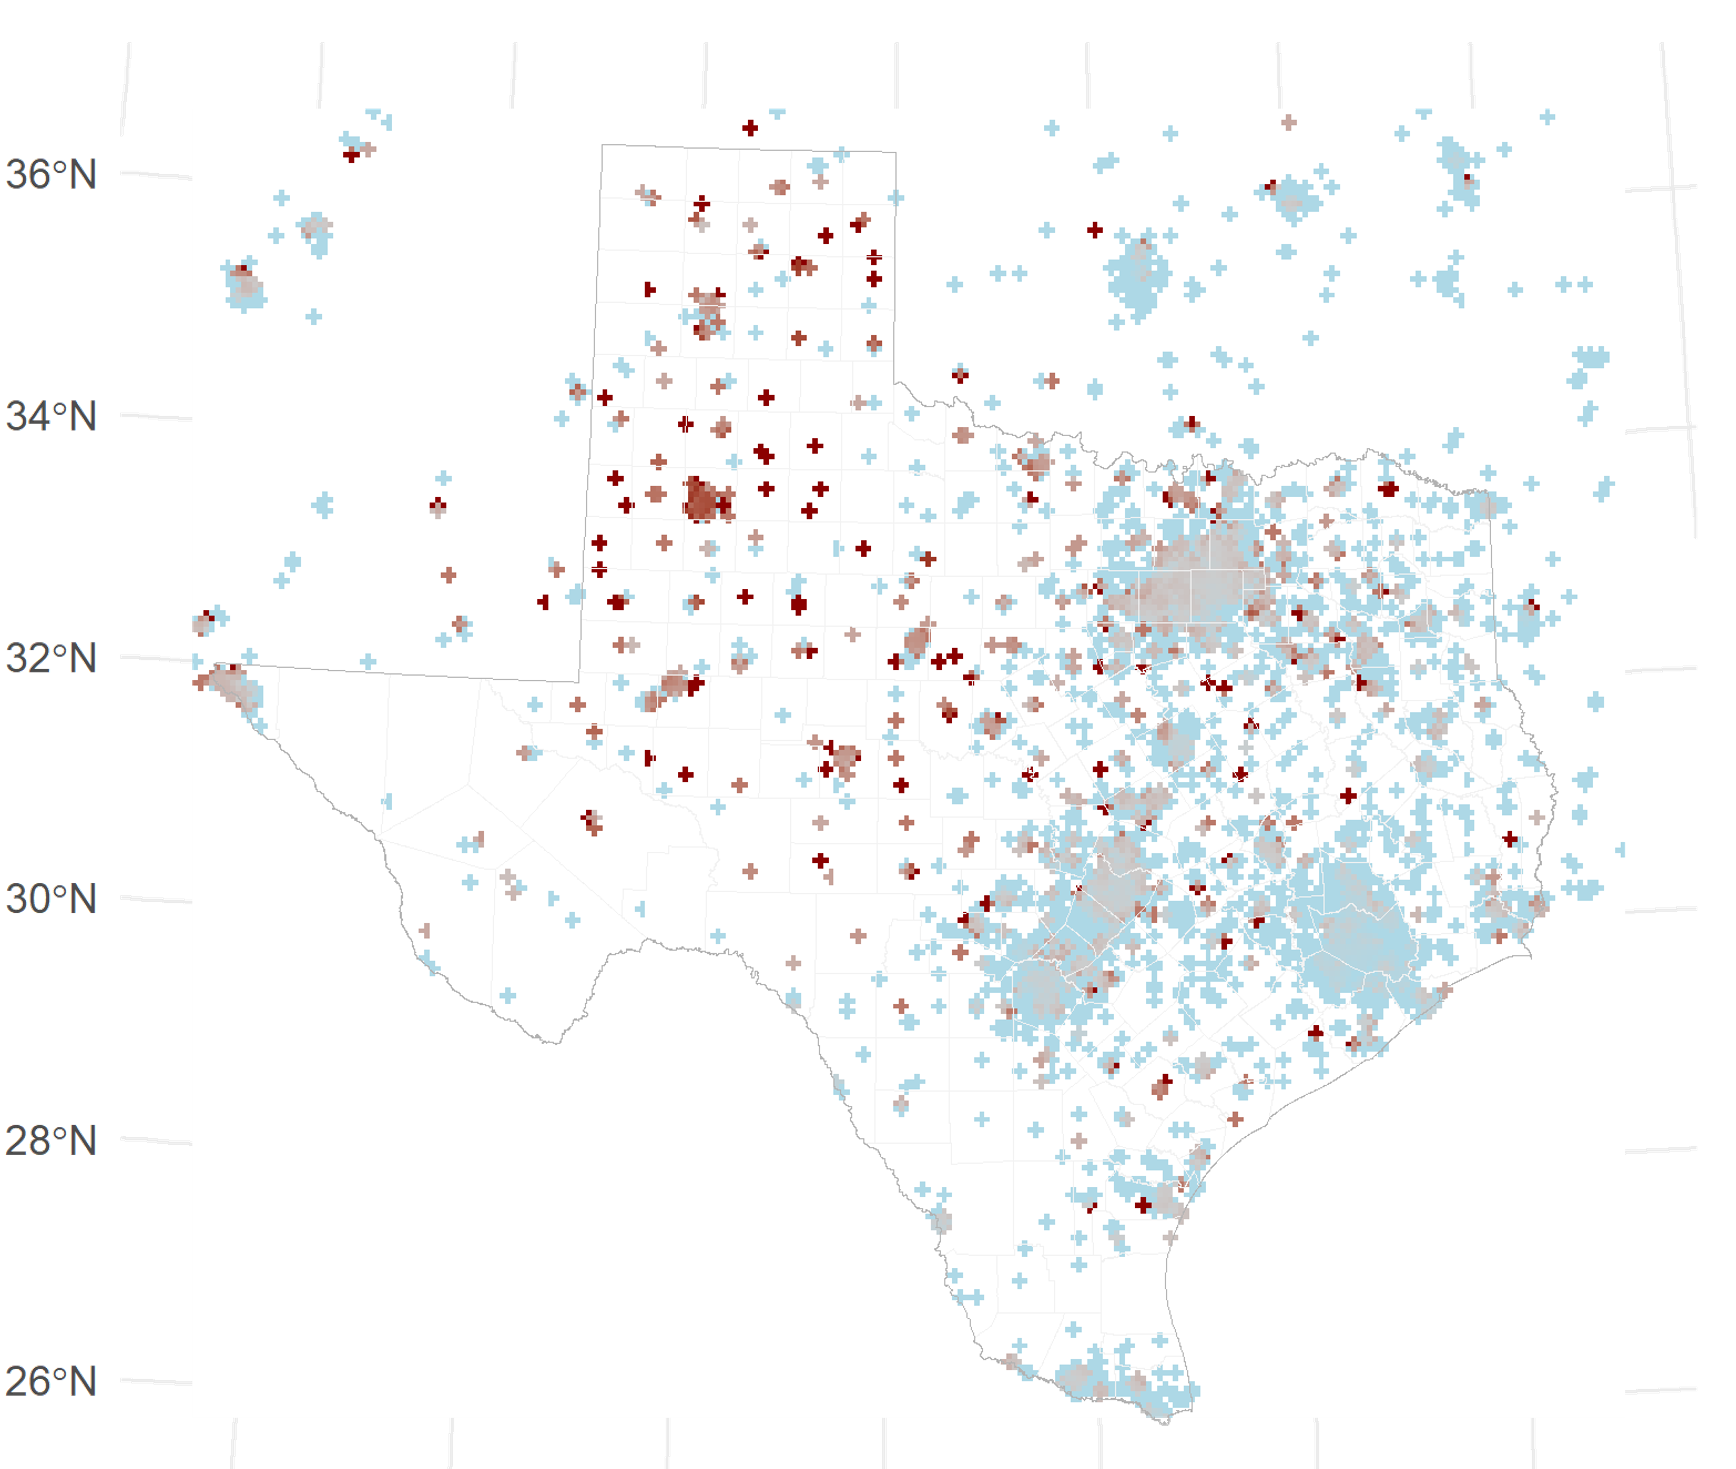
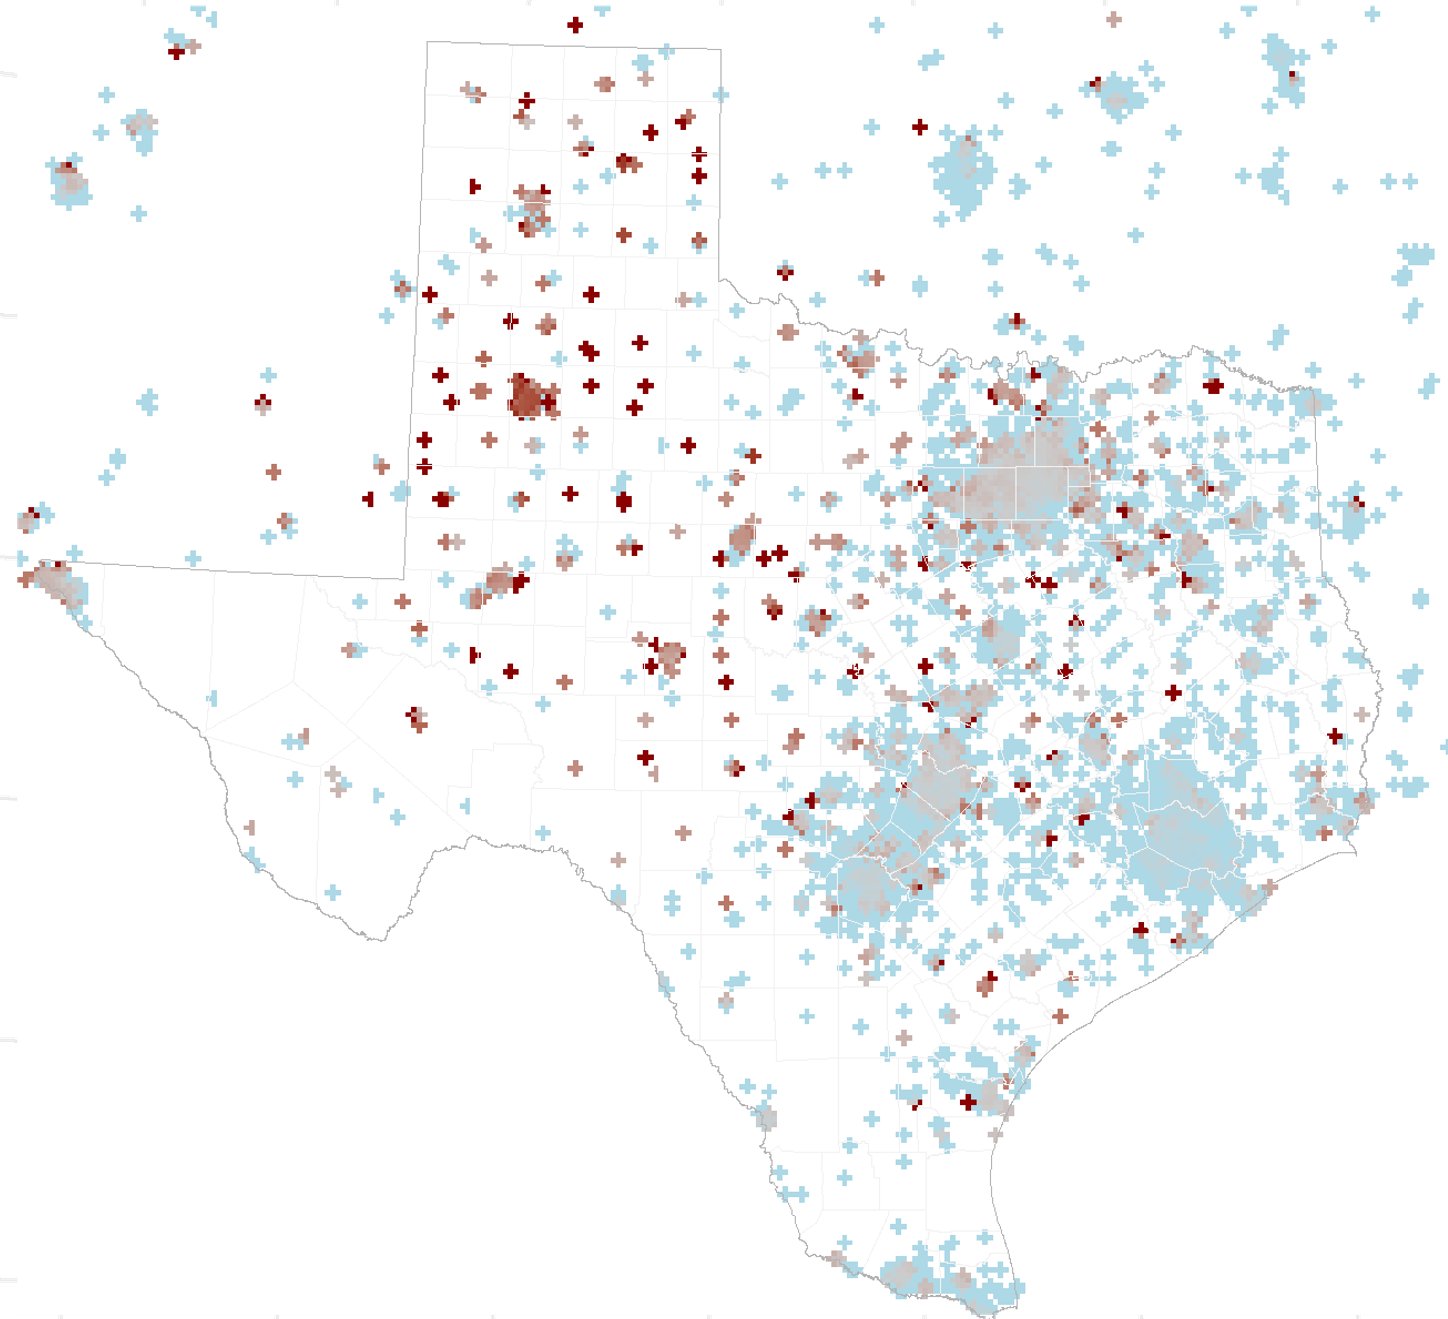
nov second

diff --git a/_pages/Research.md b/_pages/Research.md
@@ -15,67 +15,46 @@ excerpt: "Spatial Data, Mass Violence, and Urban Built-Environment."
 
 intro: 
   - excerpt: 'Geography is a bout the location and space of everything on earth: '
-feature_row:
+feature_row0:
   - image_path: /assets/images/Belize-city.jpg
-    image_caption: "Credit: [Teng](https://stormocean.github.io/)"
+    image_caption: "Credit: [Teng](https://mi-geo.github.io/)"
     alt: "Spatial Analysis"
-    title: "Innovatie Spatial Analysis Methods"
+    title: "Uneven Legal Resource across Space"
     excerpt: ""
-    url: "/teaching/"
+    url: "/legal/"
     btn_label: "Read More"
     btn_class: "btn-info"
   - image_path: /assets/images/Indonesia-statue.jpg
-    image_caption: "Credit: [Teng](https://stormocean.github.io/)"
+    image_caption: "Credit: [Teng](https://mi-geo.github.io/)"
     alt: "Violence"
     title: "Mass Violence in Indonesia"
     excerpt: "Spatial analysis of mass **violence**. Research area focuses on Indonesia."
-    url: "/teaching/"
+    url: "/Indonesia/"
     btn_label: "Read More"
     btn_class: "btn-info"
   - image_path: /assets/images/Beijing-danwei.jpg
-    image_caption: "Credit: [Teng](https://stormocean.github.io/)"
+    image_caption: "Credit: [Teng](https://mi-geo.github.io/)"
     alt: "Danwei"
     title: "Transitioning, Poverty, and Development of Asia"
     excerpt: "My previous studies includes discussed several Quantitative urban policy study"
-    url: "/teaching/"
-    btn_label: "Read More"
+    url: "/China/"
+    <!--
+	btn_label: "Read More"
     btn_class: "btn-info"
+	-->
 Seperator1: 
   - title: ""
   - excerpt: ''
-feature_row2:
+feature_row1:
   - image_path: /assets/images/res/whole-draft-resize.png
     alt: "Spatial Analysis of Indonesia Mass Violence"
     title: "Spatial Analysis of Indonesia Mass Violence"
-    excerpt: "We have estimates of the intensity of violence in the different kecamatan of East Java based on census data in conjunction with data on the locations of the historically significant pesantren, indicative of local capacity for political mobilization against the PKI, to examine possible associations between the two variables.\
+    excerpt: "We have estimates of the intensity of violence in the different kecamatan of East Java based on census data in conjunction with data on the locations of the historically significant pesantren, indicative of local capacity for political mobilization against the PKI, to examine possible associations between the two variables.
+	
 	*Chandra, S., Zhang, T., 2023. Glimpses of Indonesia’s 1965 Massacre through the Lens of the Census: The Role of Civilian Organizations in the Mass Anti-Communist Killings of 1965-66 in East Java. Indonesia (accepted)*"
     url: "/Indonesia/"
     btn_label: "Read More"
     btn_class: "btn--info"
-feature_row3:
-  - image_path: /assets/images/res/Air-Quality-Fig02.png
-    alt: "Environment Policy and Empirical Result of Air Quality in China"
-    title: "Environment Policy and Empirical Result of Air Quality in China"
-    excerpt: "The capability, pressure, and resistance to enforce environmental regulations would determine the result of air quality. This study investigated the air quality across 86 major Chinese cities and observed that between 2001 and 2011, air quality showed an overall improvement, although with substantial discrepancies across cities.\
-	Using a panel data regression model, this study revealed that inadequate capability and strong opposition towards enforcing stringent environmental regulations were pivotal factors contributing to environmental degradation in urban China. Moreover, the study concluded that social pressure had a negligible impact on improving urban air quality.\
-
-	*He, C., Zhang, T. and Rui, W., 2012. Air quality in urban China. Eurasian Geography and Economics, 53(6), pp.750-771.*"
-    url: "https://www.tandfonline.com/doi/pdf/10.2747/1539-7216.53.6.750"
-    btn_label: "Read More"
-    btn_class: "btn--info"
-feature_row4:
-  - image_path: /assets/images/res/HGDY-Danwei-timeline.png
-    alt: "danwei compound in Beijing..."
-    title: "Transiting spatial structure of post-soviet walled residential compound"
-    excerpt: "*Danwei* compounds (work-unit) constituted the predominant type of urban neighborhood. Subsequent to the economic reforms, the role of these compounds has experienced significant changes. This research undertakes an exploration of the conceptualization of property rights redistribution and spatial evolution in post-danwei compounds. 
-	The trend towards the private appropriation of all types of compound resources by these users has brought about the spatial evolution of the compound, characterized by the reuse of former amenities, fragmented spaces, porous boundaries, the evolution of street shops, and the encroachment of public space.\
-	*Zhang, M., Zhang, T., Xiao, Z. and Chai, Y., 2021. Property rights redistribution and the spatial evolution of the Chinese danwei compound: a case study in Beijing. Journal of Housing and the Built Environment, pp.1-18.*"
-    url: "https://link.springer.com/article/10.1007/s10901-020-09810-z"
-    btn_label: "Read More"
-    btn_class: "btn--info"
-Seperator2: 
-  - title: "Urban Spatial Structure in Transitioning Chinese City"
-  - excerpt: ''
 
 ---
 {% include feature_row id="intro" type="center" %}
@@ -84,14 +63,3 @@ Seperator2:
 #### Selected Published Work
 
 {% include feature_row id="Seperator1" type="left" %}
-
-{% include feature_row id="feature_row2" type="left" %}
-
-{% include feature_row id="feature_row3" type="right" %}
-
-{% include feature_row id="feature_row4" type="left" %}
-
-#### Selected Work in Process:
-{% include feature_row id="Seperator2" type="left" %}
-
-{% include feature_row id="feature_row5" type="left" %}

diff --git a/_pages/research-old.md b/_pages/research-old.md
@@ -1,0 +1,103 @@
+---
+title: Research Interests
+layout: splash
+permalink: /research/
+date: 
+header:
+  overlay_color: "#000"
+  overlay_filter: "0.2"
+  overlay_image: /assets/images/Jkt-downtown.jpg
+  caption: "Photo credit: [**Teng Zhang**](https://facebook.com)"
+  actions:
+    - label: "Read More"
+      url: "https://github.com/"
+excerpt: "Spatial Data, Mass Violence, and Urban Built-Environment."
+
+intro: 
+  - excerpt: 'Geography is a bout the location and space of everything on earth: '
+feature_row:
+  - image_path: /assets/images/Belize-city.jpg
+    image_caption: "Credit: [Teng](https://mi-geo.github.io/)"
+    alt: "Spatial Analysis"
+    title: "Innovatie Spatial Analysis Methods"
+    excerpt: ""
+    url: "/teaching/"
+    btn_label: "Read More"
+    btn_class: "btn-info"
+  - image_path: /assets/images/Indonesia-statue.jpg
+    image_caption: "Credit: [Teng](https://mi-geo.github.io/)"
+    alt: "Violence"
+    title: "Mass Violence in Indonesia"
+    excerpt: "Spatial analysis of mass **violence**. Research area focuses on Indonesia."
+    url: "/teaching/"
+    btn_label: "Read More"
+    btn_class: "btn-info"
+  - image_path: /assets/images/Beijing-danwei.jpg
+    image_caption: "Credit: [Teng](https://mi-geo.github.io/)"
+    alt: "Danwei"
+    title: "Transitioning, Poverty, and Development of Asia"
+    excerpt: "My previous studies includes discussed several Quantitative urban policy study"
+    url: "/teaching/"
+    btn_label: "Read More"
+    btn_class: "btn-info"
+Seperator1: 
+  - title: ""
+  - excerpt: ''
+feature_row2:
+  - image_path: /assets/images/res/whole-draft-resize.png
+    alt: "Spatial Analysis of Indonesia Mass Violence"
+    title: "Spatial Analysis of Indonesia Mass Violence"
+    excerpt: "We have estimates of the intensity of violence in the different kecamatan of East Java based on census data in conjunction with data on the locations of the historically significant pesantren, indicative of local capacity for political mobilization against the PKI, to examine possible associations between the two variables.
+	
+	*Chandra, S., Zhang, T., 2023. Glimpses of Indonesia’s 1965 Massacre through the Lens of the Census: The Role of Civilian Organizations in the Mass Anti-Communist Killings of 1965-66 in East Java. Indonesia (accepted)*"
+    url: "/Indonesia/"
+    btn_label: "Read More"
+    btn_class: "btn--info"
+feature_row3:
+  - image_path: /assets/images/res/Air-Quality-Fig02.png
+    alt: "Environment Policy and Empirical Result of Air Quality in China"
+    title: "Environment Policy and Empirical Result of Air Quality in China"
+    excerpt: |
+	"The capability, pressure, and resistance to enforce environmental regulations would determine the result of air quality. This study investigated the air quality across 86 major Chinese cities and observed that between 2001 and 2011, air quality showed an overall improvement, although with substantial discrepancies across cities.
+	
+	Using a panel data regression model, this study revealed that inadequate capability and strong opposition towards enforcing stringent environmental regulations were pivotal factors contributing to environmental degradation in urban China. Moreover, the study concluded that social pressure had a negligible impact on improving urban air quality.
+
+	*He, C., Zhang, T. and Rui, W., 2012. Air quality in urban China. Eurasian Geography and Economics, 53(6), pp.750-771.*"
+    url: "https://www.tandfonline.com/doi/pdf/10.2747/1539-7216.53.6.750"
+    btn_label: "Read More"
+    btn_class: "btn--info"
+feature_row4:
+  - image_path: /assets/images/res/HGDY-Danwei-timeline.png
+    alt: "danwei compound in Beijing..."
+    title: "Transiting spatial structure of post-soviet walled residential compound"
+    excerpt: |
+	"*Danwei* compounds (work-unit) constituted the predominant type of urban neighborhood. Subsequent to the economic reforms, the role of these compounds has experienced significant changes. This research undertakes an exploration of the conceptualization of property rights redistribution and spatial evolution in post-danwei compounds. 
+	
+	The trend towards the private appropriation of all types of compound resources by these users has brought about the spatial evolution of the compound, characterized by the reuse of former amenities, fragmented spaces, porous boundaries, the evolution of street shops, and the encroachment of public space.
+	
+	*Zhang, M., Zhang, T., Xiao, Z. and Chai, Y., 2021. Property rights redistribution and the spatial evolution of the Chinese danwei compound: a case study in Beijing. Journal of Housing and the Built Environment, pp.1-18.*"
+    url: "https://link.springer.com/article/10.1007/s10901-020-09810-z"
+    btn_label: "Read More"
+    btn_class: "btn--info"
+Seperator2: 
+  - title: "Urban Spatial Structure in Transitioning Chinese City"
+  - excerpt: ''
+
+---
+{% include feature_row id="intro" type="center" %}
+
+{% include feature_row %}
+#### Selected Published Work
+
+{% include feature_row id="Seperator1" type="left" %}
+
+{% include feature_row id="feature_row2" type="left" %}
+
+{% include feature_row id="feature_row3" type="right" %}
+
+{% include feature_row id="feature_row4" type="left" %}
+
+#### Selected Work in Process:
+{% include feature_row id="Seperator1" type="left" %}
+
+{% include feature_row id="feature_row5" type="left" %}

diff --git a/_pages/China.md b/_pages/China.md
@@ -1,0 +1,56 @@
+---
+title: '**Unsafe Place**: '
+layout: single
+permalink: /China/
+author_profile: true
+date:
+header:
+  overlay_color: "#000"
+  overlay_filter: "0.2"
+  overlay_image: /assets/images/Culture-Revolution.jpg
+  caption: "Photo credit: [**Teng Zhang**](https://facebook.com)"
+excerpt: "China related research..."
+---
+
+Seperator1: 
+  - title: ""
+  - excerpt: ''
+
+feature_row1:
+  - image_path: /assets/images/res/Air-Quality-Fig02.png
+    alt: "Environment Policy and Empirical Result of Air Quality in China"
+    title: "Environment Policy and Empirical Result of Air Quality in China"
+    excerpt: |
+	"The capability, pressure, and resistance to enforce environmental regulations would determine the result of air quality. This study investigated the air quality across 86 major Chinese cities and observed that between 2001 and 2011, air quality showed an overall improvement, although with substantial discrepancies across cities.
+	
+	Using a panel data regression model, this study revealed that inadequate capability and strong opposition towards enforcing stringent environmental regulations were pivotal factors contributing to environmental degradation in urban China. Moreover, the study concluded that social pressure had a negligible impact on improving urban air quality.
+
+	*He, C., Zhang, T. and Rui, W., 2012. Air quality in urban China. Eurasian Geography and Economics, 53(6), pp.750-771.*"
+    url: "https://www.tandfonline.com/doi/pdf/10.2747/1539-7216.53.6.750"
+    btn_label: "Read More"
+    btn_class: "btn--info"
+feature_row2:
+  - image_path: /assets/images/res/HGDY-Danwei-timeline.png
+    alt: "danwei compound in Beijing..."
+    title: "Transiting spatial structure of post-soviet walled residential compound"
+    excerpt: |
+	"*Danwei* compounds (work-unit) constituted the predominant type of urban neighborhood. Subsequent to the economic reforms, the role of these compounds has experienced significant changes. This research undertakes an exploration of the conceptualization of property rights redistribution and spatial evolution in post-danwei compounds. 
+	
+	The trend towards the private appropriation of all types of compound resources by these users has brought about the spatial evolution of the compound, characterized by the reuse of former amenities, fragmented spaces, porous boundaries, the evolution of street shops, and the encroachment of public space.
+	
+	*Zhang, M., Zhang, T., Xiao, Z. and Chai, Y., 2021. Property rights redistribution and the spatial evolution of the Chinese danwei compound: a case study in Beijing. Journal of Housing and the Built Environment, pp.1-18.*"
+    url: "https://link.springer.com/article/10.1007/s10901-020-09810-z"
+    btn_label: "Read More"
+    btn_class: "btn--info"
+	
+Seperator2: 
+  - title: "Urban Spatial Structure in Transitioning Chinese City"
+  - excerpt: ''
+
+---
+{% include feature_row id="feature_row2" type="left" %}
+
+{% include feature_row id="feature_row3" type="right" %}
+
+{% include feature_row id="feature_row4" type="left" %}
+

diff --git a/_pages/legal.md b/_pages/legal.md
@@ -1,0 +1,46 @@
+---
+title: '**Unsafe Place**: '
+layout: single
+permalink: /legal/
+author_profile: true
+date:
+header:
+  overlay_color: "#000"
+  overlay_filter: "0.2"
+  overlay_image: /assets/images/Jkt-downtown.jpg
+  caption: "Photo credit: [**Teng Zhang**](https://facebook.com)"
+  actions:
+    - label: "Read More"
+      url: "https://github.com/"
+excerpt: "Spatial Analysis of the Indonesian Purge of 1965-66..."
+---
+
+## Background
+My research on the uneven distribution of legal resources in the United States emerged from a broader concern with spatial inequality and access to justice. Across much of the rural South and Midwest, defendants often face a shortage of qualified defense attorneys, resulting in prolonged case processing times and unequal representation. This condition—commonly referred to as a legal desert—reflects deeper structural imbalances in how professional and institutional resources are distributed across space.
+
+As research deepening, I gradually developed new methods to explore the features and patterns of the evolvment of legal resources. 
+
+#### Education Analysis:
+Attorneys are trained in diverse law schools across the country. Unlike other professions, I observed that lawyers tend to establish their practices near the locations of their law schools. My initial research sought to explore how legal education influences the geographic distribution of legal resources. However, this line of inquiry was not pursued further due to limited data on the hometown origins of law students, which constrained the ability to trace their professional mobility after graduation.
+<figure>
+	<a href="/assets/analysis/TTU.png.png">
+	<img src="/assets/analysis/TTU.png.png"></a>
+	<figcaption>Location Quotient of Lawyers graduated from Texas Tech U</figcaption>
+</figure>
+
+#### Network features
+My analysis shows that legal resources have become increasingly concentrated around a few courts and clusters of legal professionals. Over time, this centralization has created pockets of abundance surrounded by large areas of scarcity, highlighting how uneven access to legal representation can reinforce broader social and geographic inequalities.
+This research is on-going.
+<figure>
+	<a href="/assets/charts/network/p_2014.png">
+	<img src="/assets/charts/network/p_2014.png" width="60%"></a>
+	<figcaption>Lawyer Network in Panhandle Texas, pre-covid</figcaption>
+</figure>
+
+<figure style="text-align:center;">
+	<a href="/assets/charts/network/p_2022.png">
+	<img src="/assets/charts/network/p_2022.png" 
+	style="max-width:60%; height:auto;"></a>
+	<figcaption>Lawyer Network in Panhandle Texas, post-covid</figcaption>
+</figure>
+ 

diff --git a/_pages/skills.md b/_pages/skills.md
@@ -50,6 +50,7 @@ I love to make maps. There
 {% include feature_row id="feature_row3" type="right" %}
 
 ## Data Scrapping
-## Interactive Website Design
+
+##### Interactive Website Design
 
 ## "Fancy" Machine Learning Application
